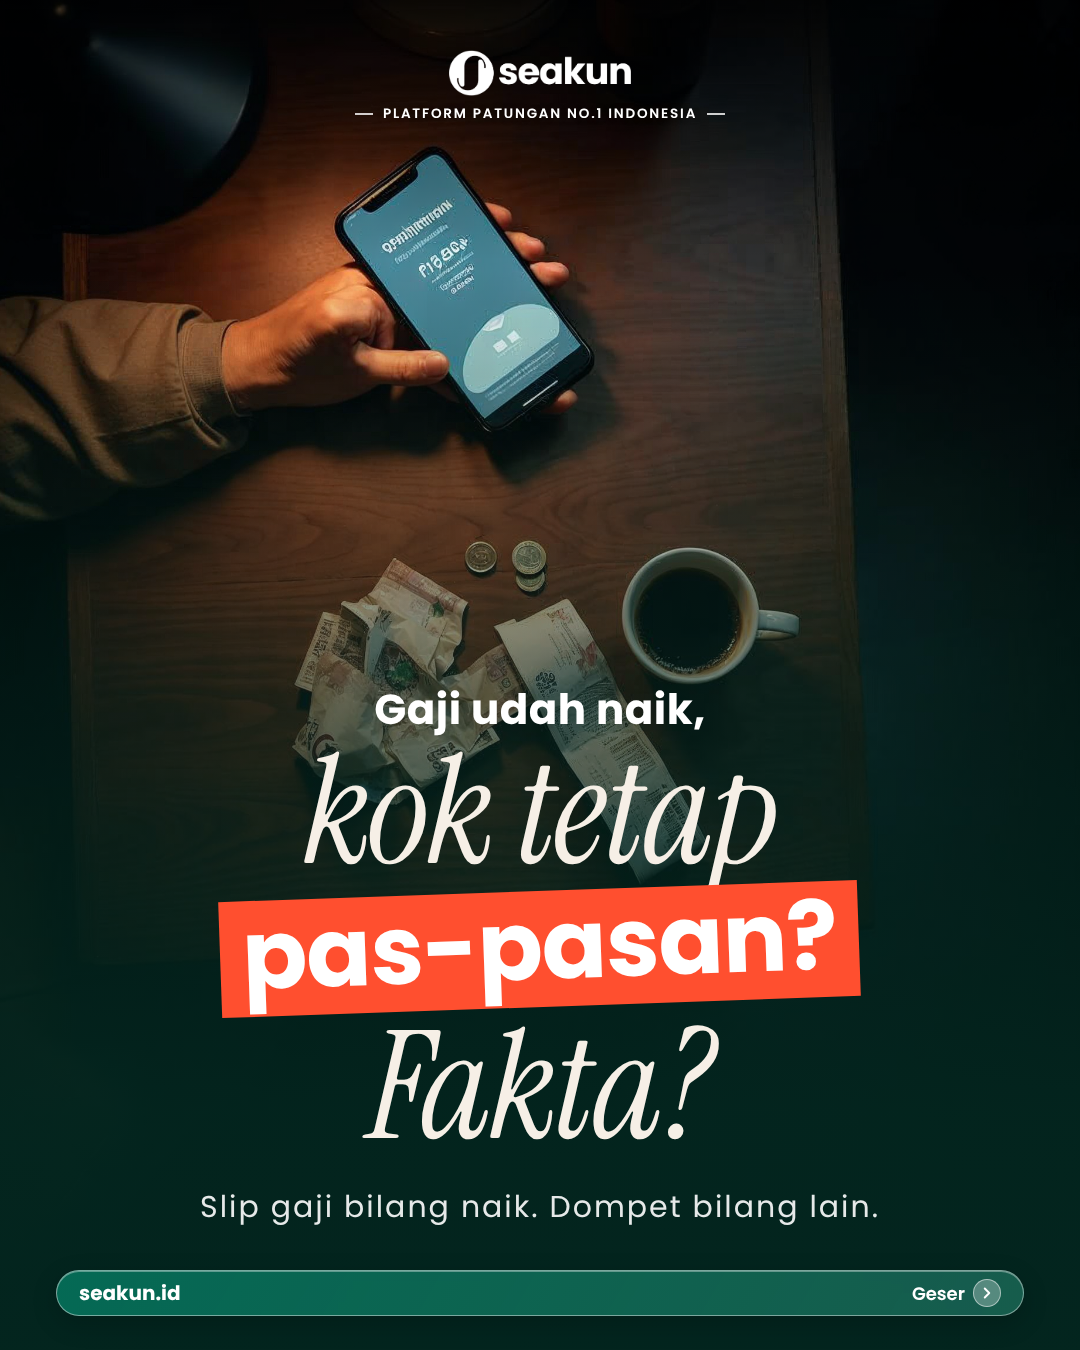
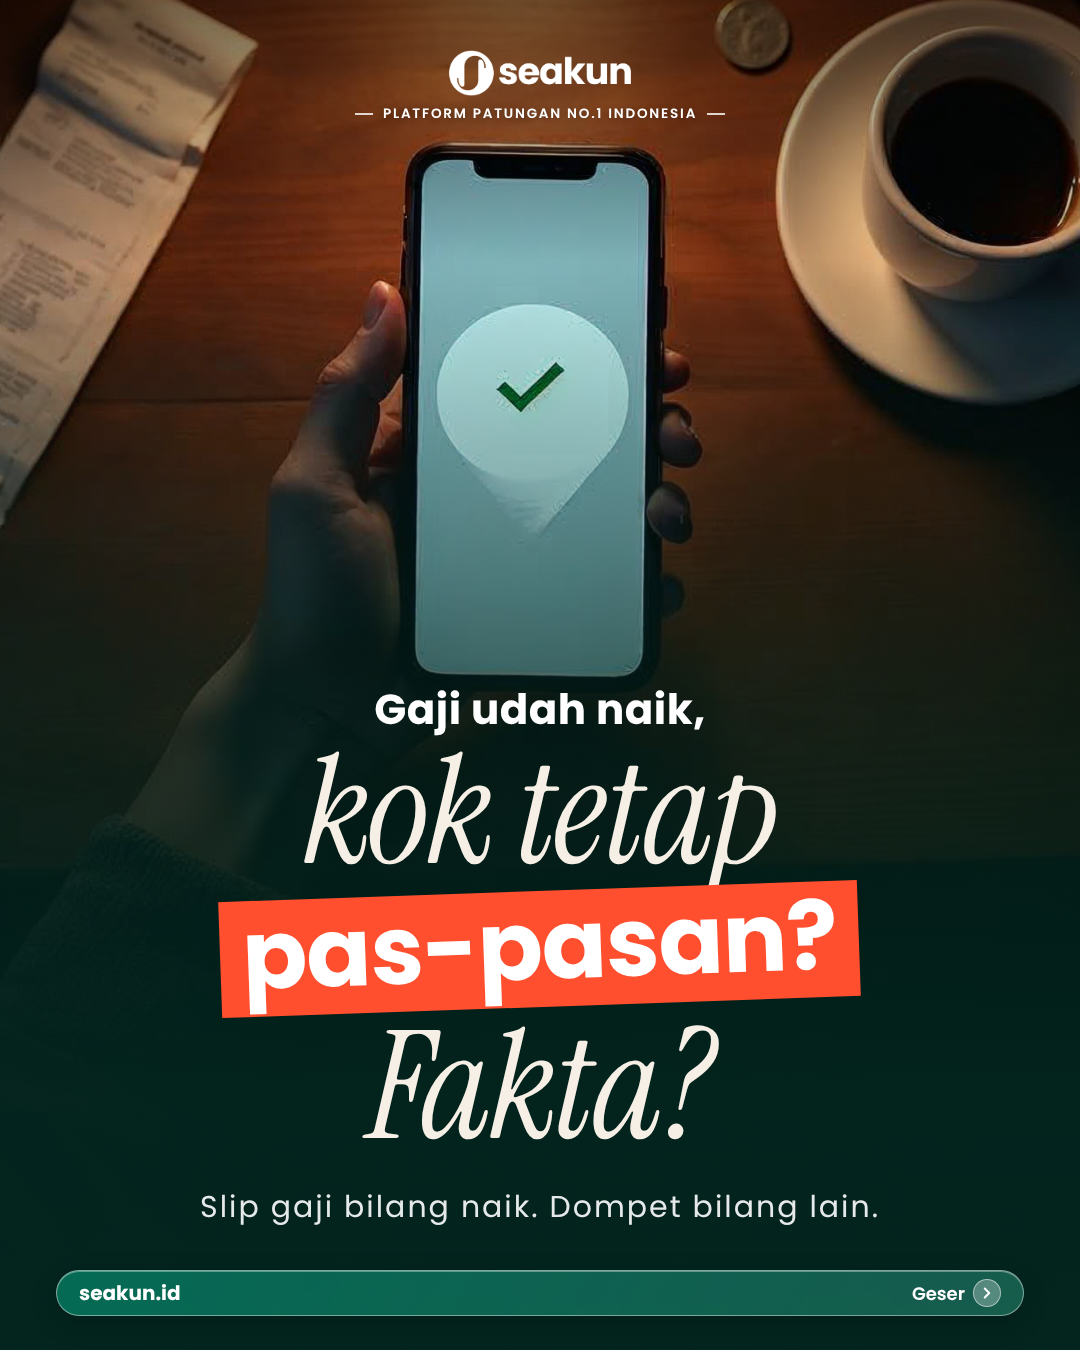
C-GAJI: revisi QA 1 (cover baru tanpa teks palsu, 5 foto pengganti, spec dirapikan)
Claude-Session: https://claude.ai/code/session_0151yEFVVwSd8fKr28vRAMgL

diff --git a/konten/visual/2026-11-19_C-GAJI/foto/SUMBER.md b/konten/visual/2026-11-19_C-GAJI/foto/SUMBER.md
@@ -1,13 +1,21 @@
 # Sumber gambar
 
-| File | Asal | Detail | Lisensi / kredit | Tanggal |
-|---|---|---|---|---|
-| cover.png | Magnific AI (Mystic) | task bf0a94fb; meja kayu malam, HP notifikasi, struk, kopi | hasil AI milik user | 2026-11-19 |
-| stok-dompet-struk.jpg | Magnific stok | id 429865233 | lisensi Magnific (https://www.magnific.com/profile/license/pdf/429865233) | 2026-11-19 |
-| s02.jpg | Magnific stok | id 41110865 | lisensi Magnific (https://www.magnific.com/profile/license/pdf/41110865) | 2026-11-19 |
+| File | Asal | Detail | Lisensi / kredit | Tanggal | Catatan |
+|---|---|---|---|---|---|
+| cover.png | Magnific AI (Mystic) | task bf0a94fb; meja kayu malam, HP notifikasi, struk, kopi | hasil AI milik user | 2026-11-19 | tidak dipakai, file dihapus — temuan 3 (teks palsu di layar HP) |
+| stok-dompet-struk.jpg | Magnific stok | id 429865233 | lisensi Magnific (https://www.magnific.com/profile/license/pdf/429865233) | 2026-11-19 | tidak dipakai, file dihapus — temuan 10 (koin euro) |
+| s02.jpg | Magnific stok | id 41110865 | lisensi Magnific (https://www.magnific.com/profile/license/pdf/41110865) | 2026-11-19 | tidak dipakai, file dihapus — temuan 4 (uang tunai dikipas) |
 | s03.jpg | Magnific stok | id 433473895 | lisensi Magnific (https://www.magnific.com/profile/license/pdf/433473895) | 2026-11-19 |
 | s04.jpg | Magnific stok | id 428230256 | lisensi Magnific (https://www.magnific.com/profile/license/pdf/428230256) | 2026-11-19 |
-| s05.jpg | Magnific stok | id 116947477 | lisensi Magnific (https://www.magnific.com/profile/license/pdf/116947477) | 2026-11-19 |
-| s06.jpg | Magnific stok | id 428854243 | lisensi Magnific (https://www.magnific.com/profile/license/pdf/428854243) | 2026-11-19 |
+| s05.jpg | Magnific stok | id 116947477 | lisensi Magnific (https://www.magnific.com/profile/license/pdf/116947477) | 2026-11-19 | tidak dipakai, file dihapus — temuan 6 (foto Jepang) |
+| s06.jpg | Magnific stok | id 428854243 | lisensi Magnific (https://www.magnific.com/profile/license/pdf/428854243) | 2026-11-19 | tidak dipakai, file dihapus — temuan 9 (layar HP kosong) |
 | s08.jpg | Magnific stok | id 321071046 | lisensi Magnific (https://www.magnific.com/profile/license/pdf/321071046) | 2026-11-19 |
 | s09.jpg | Magnific stok | id 349523055 | lisensi Magnific (https://www.magnific.com/profile/license/pdf/349523055) | 2026-11-19 |
+| s07b.jpg | Magnific stok | id 26952863 | lisensi Magnific (https://www.magnific.com/profile/license/pdf/26952863) | 2026-11-19 |
+| s02b.jpg | Magnific stok | id 367684921 | lisensi Magnific (https://www.magnific.com/profile/license/pdf/367684921) | 2026-11-19 |
+| s06b.jpg | Magnific stok | id 365083042 | lisensi Magnific (https://www.magnific.com/profile/license/pdf/365083042) | 2026-11-19 | tidak dipakai, file dihapus — cadangan dipakai: kertas coretan pseudo-teks, tidak terbaca sebagai tagihan |
+| s10.jpg | Magnific stok | id 39577735 | lisensi Magnific (https://www.magnific.com/profile/license/pdf/39577735) | 2026-11-19 | tidak dipakai, file dihapus — cadangan dipakai: foto potret, tidak terbaca di bingkai lebar |
+| cover2.png | Magnific AI (Mystic) | task 1ef41ad2-3c44-42d4-ac5b-a5a6c690bf73; prompt: top-down cinematic photo, dark wooden desk at night, warm desk lamp, hand holding smartphone in upper-middle, long crump | hasil AI milik user | 2026-11-19 | dipakai lewat potongan cover2-crop.png (dipotong lokal agar HP di atas judul) |
+| s05b.jpg | Magnific stok | id 172588829 | lisensi Magnific (https://www.magnific.com/profile/license/pdf/172588829) | 2026-11-19 |
+| s06c.jpg | Magnific stok | id 233809960 | lisensi Magnific (https://www.magnific.com/profile/license/pdf/233809960) | 2026-11-19 |
+| s10b.jpg | Magnific stok | id 298806616 | lisensi Magnific (https://www.magnific.com/profile/license/pdf/298806616) | 2026-11-19 |
